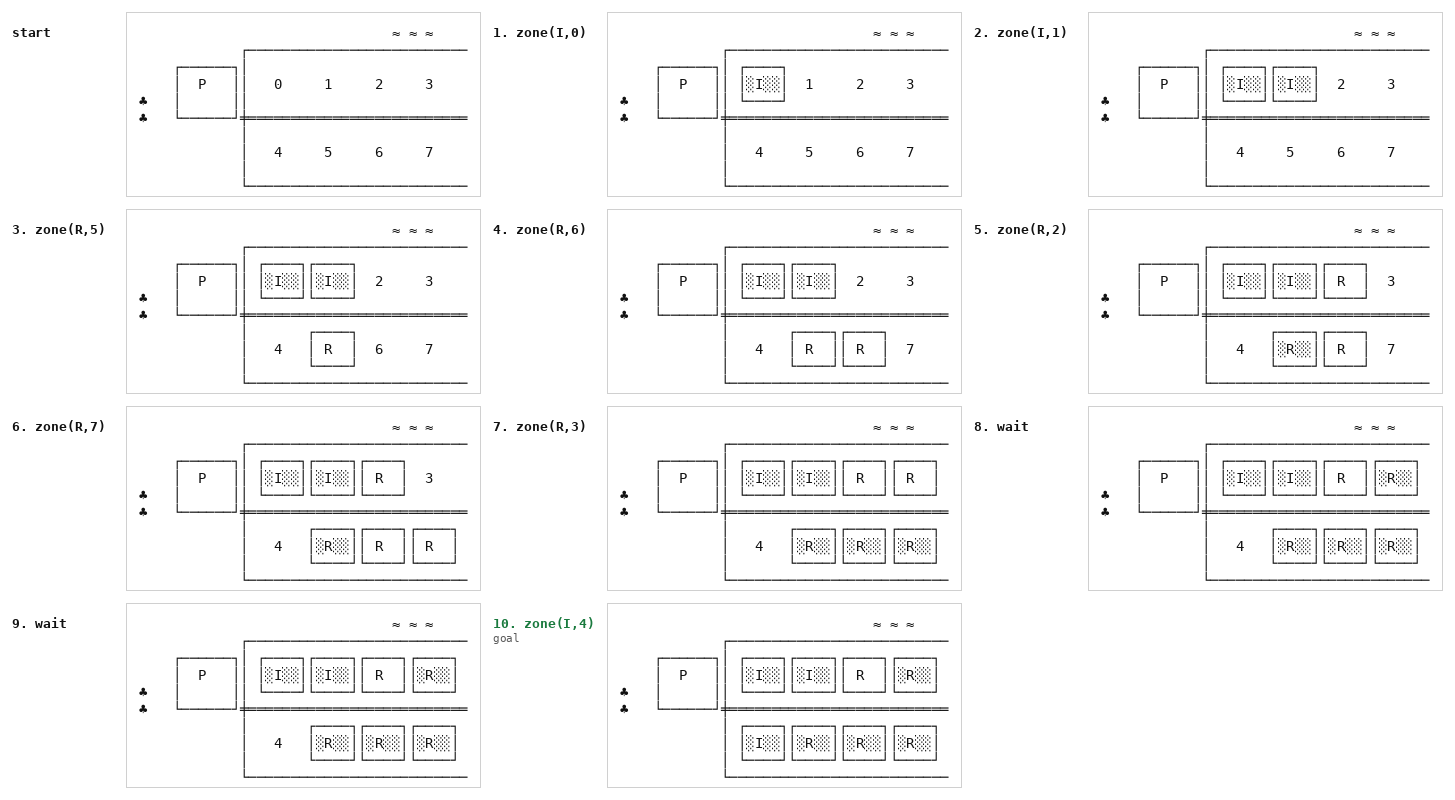
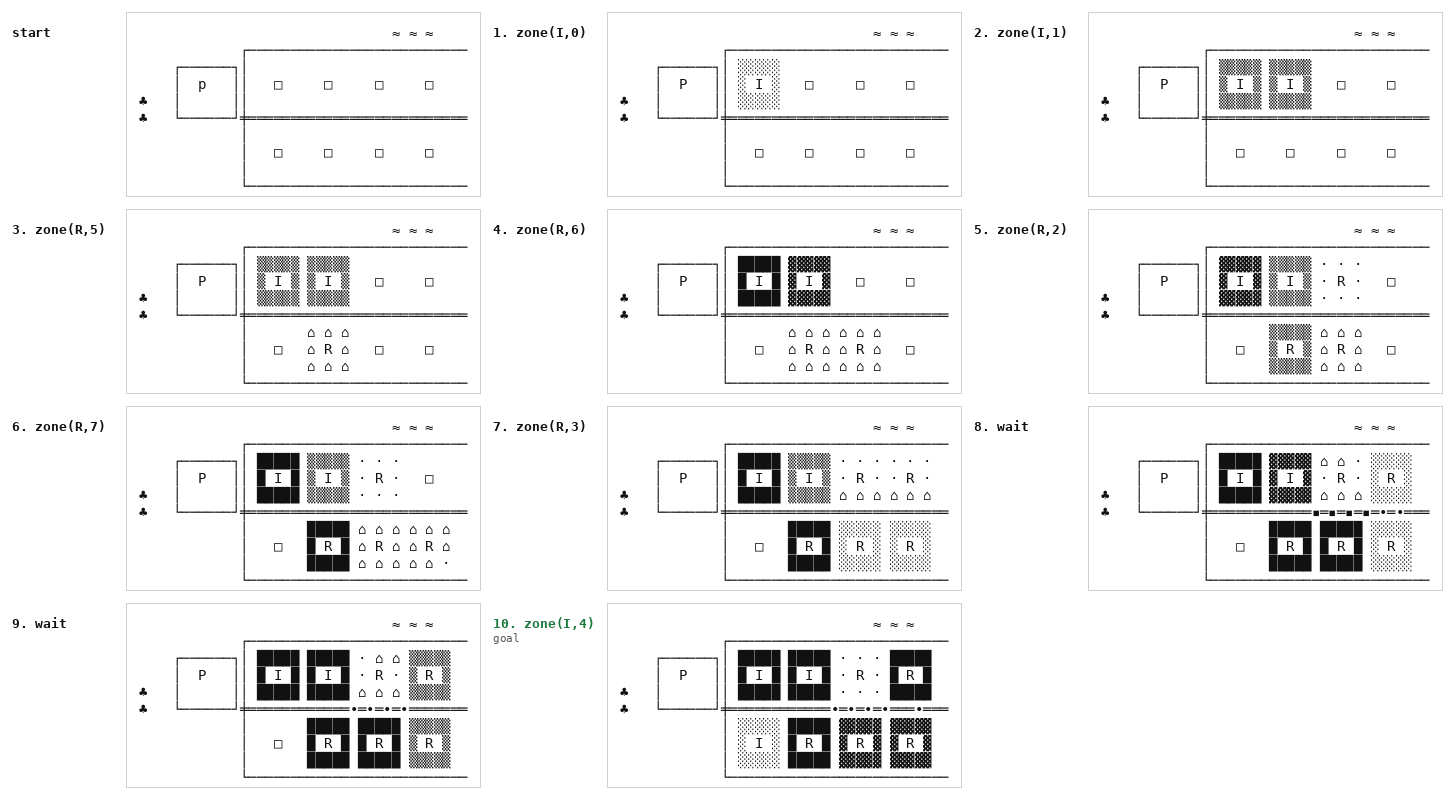
Draw the Micropolis city as it grows: lots, houses, density, power, traffic
A zone is now its own three by three tiles rather than a box: empty lots,
a residential zone's first houses, then shading by the density the
engine has built it to. A zone or the plant without power is lower case,
roads carry marks for light and heavy traffic, and open sites are squares
rather than numbers.

Claude-Session: https://claude.ai/code/session_01CbUM6vVu3Q3wBSzyXUJpxb

diff --git a/planiverse/environments/operational/micropolis/environment.py b/planiverse/environments/operational/micropolis/environment.py
@@ -135,10 +135,12 @@ class MicropolisState:
 
     def __str__(self):
         """The engine's map of the layout and a tile round it, two columns to a tile: each
-        zone as a box over its three by three tiles with its letter (R, C or I), filled with ░
-        once something is built in it; the power plant as a box marked P; roads in double lines
-        and power lines in single ones, ╪ where they cross; each site not yet zoned by its
-        number; trees as ♣ and water as ≈."""
+        zone as its three by three tiles with its letter (R, C or I) in the middle, the tiles
+        empty lots · until something is built, a residential zone's first houses ⌂, and a
+        built zone shaded ░ ▒ ▓ █ by its density; the power plant as a box marked P; a zone or
+        plant without power by its letter in lower case; roads in double lines with ∙ beside a
+        tile of light traffic and ▪ of heavy, and power lines in single ones, ╪ where they
+        cross; each site not yet zoned as □; trees as ♣ and water as ≈."""
         from planiverse.rendering.text import Canvas
 
         status = (f"year {self.year}   population {self.population} of {self.target}   "
@@ -171,10 +173,17 @@ class MicropolisState:
                                                  else lines[(1, 0, 1, 0)]))
                 if arms[1]:
                     canvas.put(2 * tx + 1, ty, lines[(0, 1, 0, 1)])
+        for ty, row in enumerate(tiles):
+            for tx, raw in enumerate(row):
+                tile = raw & me.LOMASK
+                if _line_kind(tile) == "road":
+                    mark = next((mark for low, mark in TRAFFIC if low <= tile <= 206), None)
+                    if mark:
+                        canvas.put(2 * tx + 1, ty, mark)
         zoned = {site for kind_, site in self.decisions if kind_ is not None}
         for site, (sx, sy) in enumerate(site_centres(*self.patch.origin)):
             if site not in zoned:
-                canvas.put(2 * (sx - wx), sy - wy, str(site))
+                canvas.put(2 * (sx - wx), sy - wy, "□")
         for ty, row in enumerate(tiles):
             for tx, raw in enumerate(row):
                 if not raw & me.ZONEBIT:
@@ -183,15 +192,27 @@ class MicropolisState:
                 letter = next((name for name, low, high in ZONES if low <= tile <= high), None)
                 if letter is None:
                     continue
-                if letter == "P":
+                if not raw & me.PWRBIT:
+                    letter = letter.lower()
+                if letter in "Pp":
                     canvas.fill(2 * tx - 2, ty - 1, 2 * tx + 5, ty + 2, " ")
                     canvas.rect(2 * tx - 2, ty - 1, 2 * tx + 5, ty + 2)
-                    canvas.put(2 * tx + 1, ty, "P")
+                    canvas.put(2 * tx + 1, ty, letter)
                     continue
-                built = tile not in EMPTY_ZONES
-                canvas.fill(2 * tx - 2, ty - 1, 2 * tx + 3, ty + 1, "░" if built else " ")
-                canvas.rect(2 * tx - 2, ty - 1, 2 * tx + 3, ty + 1)
+                base, levels = DENSITY[letter.upper()]
+                fill = LOT if tile in EMPTY_ZONES else \
+                    DENSITY_FILL[min(len(DENSITY_FILL) - 1, (tile - base) // 9 % levels)]
+                for dy in (-1, 0, 1):
+                    for dx in (-1, 0, 1):
+                        here = tiles[ty + dy][tx + dx] & me.LOMASK \
+                            if 0 <= ty + dy < height and 0 <= tx + dx < width else 0
+                        house = fill == LOT and HOUSES[0] <= here <= HOUSES[1]
+                        canvas.put(2 * (tx + dx), ty + dy, HOUSE_MARK if house else fill)
+                        if dx < 1:
+                            canvas.put(2 * (tx + dx) + 1, ty + dy, " " if fill == LOT else fill)
+                canvas.put(2 * tx - 1, ty, " ")
                 canvas.put(2 * tx, ty, letter)
+                canvas.put(2 * tx + 1, ty, " ")
         return str(canvas)
 
 
@@ -208,6 +229,17 @@ class CityPatch(namedtuple("CityPatch", "origin corner tiles")):
 #: built in yet (`FREEZ`, `COMCLR`, `INDCLR`).
 ZONES = (("R", 240, 422), ("C", 423, 611), ("I", 612, 692), ("P", 745, 760), ("P", 811, 826))
 EMPTY_ZONES = (244, 427, 616)
+#: Where a zone's built tiles start (`RZB`, `CZB`, `IZB`) and how many density levels it has:
+#: a built zone's centre is that base plus nine tiles for each step of land value times
+#: density, so its density is the step modulo the levels. A residential zone's first houses
+#: (`LHTHR` to `HHTHR`) stand on its lots before it is built up.
+DENSITY = {"R": (265, 4), "C": (436, 5), "I": (625, 4)}
+HOUSES = (249, 260)
+#: A zone's tiles by its density, from least to most built up, and an empty lot; a house.
+DENSITY_FILL, LOT, HOUSE_MARK = "░▒▓█", "·", "⌂"
+#: A road tile with light traffic (`LTRFBASE` on) and heavy (`HTRFBASE` on), and the mark
+#: each puts beside the road.
+TRAFFIC = ((144, "▪"), (80, "∙"))
 #: Box-drawing by (up, right, down, left) arms: double lines for roads, single for wires.
 DOUBLE = {(0, 1, 0, 1): "═", (1, 0, 1, 0): "║", (0, 1, 1, 0): "╔", (0, 0, 1, 1): "╗",
           (1, 1, 0, 0): "╚", (1, 0, 0, 1): "╝", (1, 1, 1, 0): "╠", (1, 0, 1, 1): "╣",

diff --git a/tests/test_micropolis.py b/tests/test_micropolis.py
@@ -67,10 +67,12 @@ def test_the_picture_draws_the_engines_map_of_the_layout(env):
     state, _ = env.reset()
     picture = str(state)
     assert isinstance(picture, str) and picture and not missing_glyphs(picture)
-    assert "P" in picture and "═" in picture and "╪" in picture
-    assert all(str(site) in picture for site in range(SITES)), "every site open, by number"
+    assert "p" in picture, "the plant before the engine has powered it"
+    assert "═" in picture and "╪" in picture
+    assert picture.count("□") == SITES, "every site open"
     zoned = env.__advance__(state, MicropolisAction("R", 0))
-    assert "R" in str(zoned) and "R" not in picture and "0" not in str(zoned).splitlines()[3]
+    assert "R" in str(zoned) and "P" in str(zoned) and "R" not in picture
+    assert str(zoned).count("□") == SITES - 1
     assert len(str(zoned).splitlines()) == len(picture.splitlines()), "the patch keeps its size"
 
 

diff --git a/docs/environments/micropolis.md b/docs/environments/micropolis.md
@@ -151,20 +151,25 @@ which zones three commercial sites among four residential and one industrial, re
 
 The render is `str(state)`, typeset, one frame per state. Here that is the engine's own map of the
 layout and one tile round it, as it stands after the state's last year, two columns to a tile with
-north at the top. A zone is drawn as the engine stores it, so it shows once it is placed and fills
-once something is built in it. The same plan is also a [contact sheet](../renders/micropolis.png),
+north at the top. A zone is drawn as the engine stores it, tile by tile: empty lots once it is
+placed, a residential zone's first houses as they go up, then the zone shaded by how densely it is
+built, so the frames show the city growing. Traffic shows on the roads as the city fills. The same plan is also a [contact sheet](../renders/micropolis.png),
 every frame on one image, captioned with the step number, the action that produced it, and a note on
 the goal state. Both were generated by solving the instance and handing the trace to `render_trace`:
 
 | Symbol | Meaning |
 |---|---|
-| a box with `R`, `C` or `I` | a residential, commercial or industrial zone over its three by three tiles |
-| `░` inside a zone | something is built in it |
+| `R`, `C` or `I` amid three by three tiles | a residential, commercial or industrial zone |
+| `·` in a zone | an empty lot |
+| `⌂` | a house, a residential zone's first building |
+| `░`, `▒`, `▓`, `█` | a built zone, from least to most densely |
 | a box with `P` | the coal power plant |
+| a lower-case `r`, `c`, `i` or `p` | a zone or the plant without power |
 | `═`, `║` and their joins | road |
 | `─`, `│` and their joins | power line |
 | `╪` | a power line crossing the road |
-| `0` to `7` | a site not yet zoned, by the number `zone` names it by |
+| `∙`, `▪` beside a road | light and heavy traffic on that tile |
+| `□` | a site not yet zoned |
 | `♣`, `≈` | trees, water |
 
 ```python
